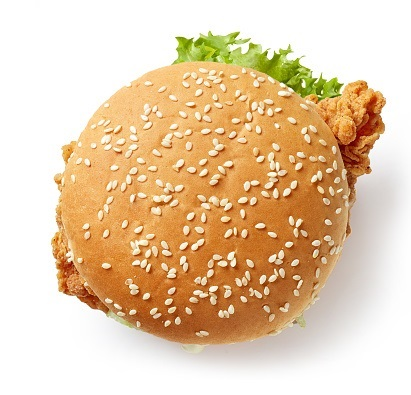
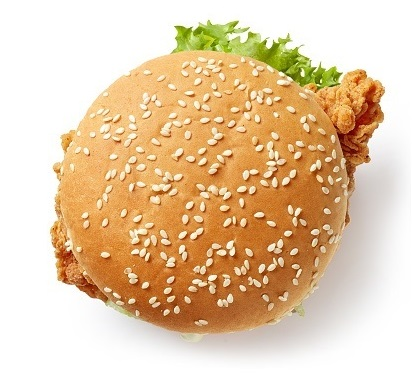
custom-burger size fix

Changed region(s): [[0.1168, 0.0312, 0.9635, 0.8727]]

diff --git a/custom-burger.js b/custom-burger.js
@@ -14,11 +14,11 @@ window.addEventListener('load', function() {
 
             img.classList.add('burger-img');
             canvas.classList.add('burger-img');
+            const relevantSize = Math.min(img.height, img.width)
 
-
+            img.style.clipPath = `circle(${relevantSize/2}px at 50% 50%)`
             // const fisheye = new Fisheye(canvas);
-            //
-            // fisheye.setViewport(500, 500);
+            // fisheye.setViewport(parseInt(canvas.height), parseInt(canvas.height));
             // fisheye.setDistortion(10, 10, 10);
             // fisheye.clear();
             //

diff --git a/custom-burger.html b/custom-burger.html
@@ -18,7 +18,7 @@
     <br>
     <br>
     <button class="button-style" onclick="">Нарисовать свой дизайн</button> или
-    <label for="file-upload" class="custom-file-upload button-style"> Загрузить картинку </label>
+    <label for="file-upload" class="custom-file-upload button-style" onclick="Customize()"> Загрузить картинку </label>
     <input id="file-upload" type="file" accept="image/png, image/jpeg"/>
 </div>
 </body>

diff --git a/custom-burger-styles.css b/custom-burger-styles.css
@@ -40,13 +40,10 @@ img {
     top: 0;
     bottom: 0;
     margin: auto auto;
-    height: 70%;
+    height: 74%;
     width: auto;
     filter: sepia(100) brightness(120%);
-    opacity: 70%;
-    /*странные вещи с размерами обрезания, на квадратах ок, надо разбираться*/
-    clip-path: circle(50% at 50% 50%);
-
+    opacity: 80%;
 }
 
 
